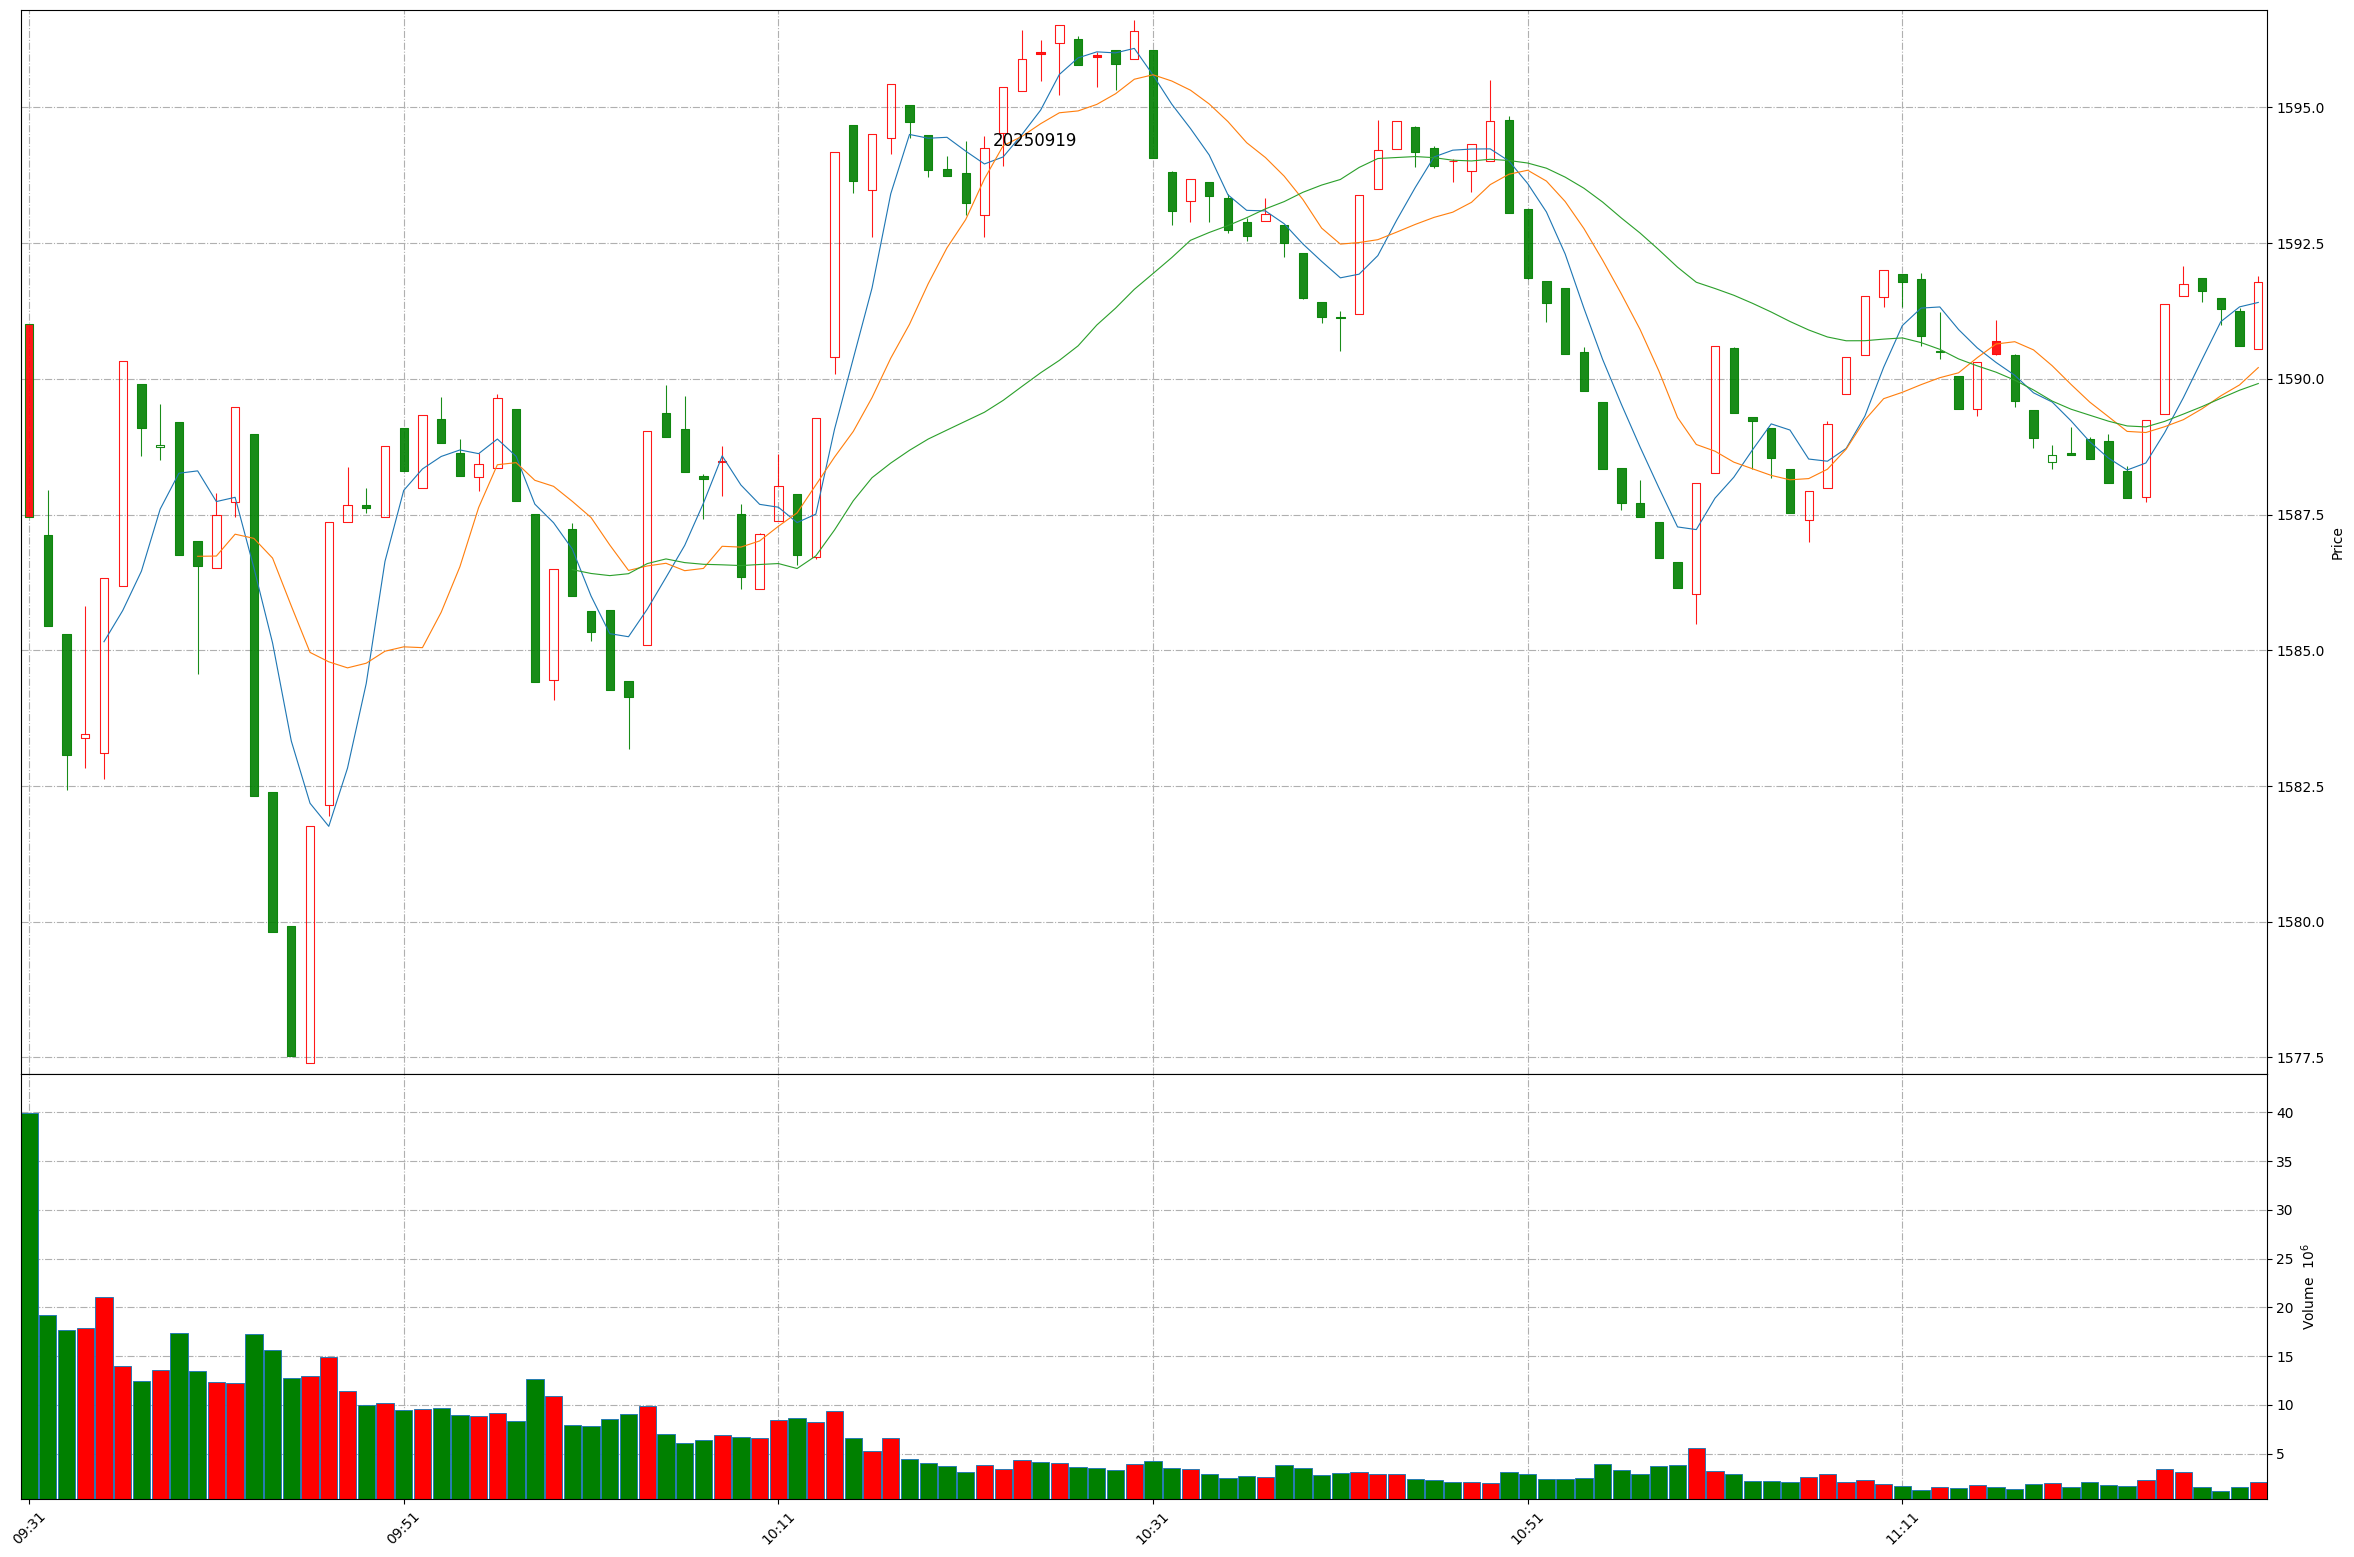
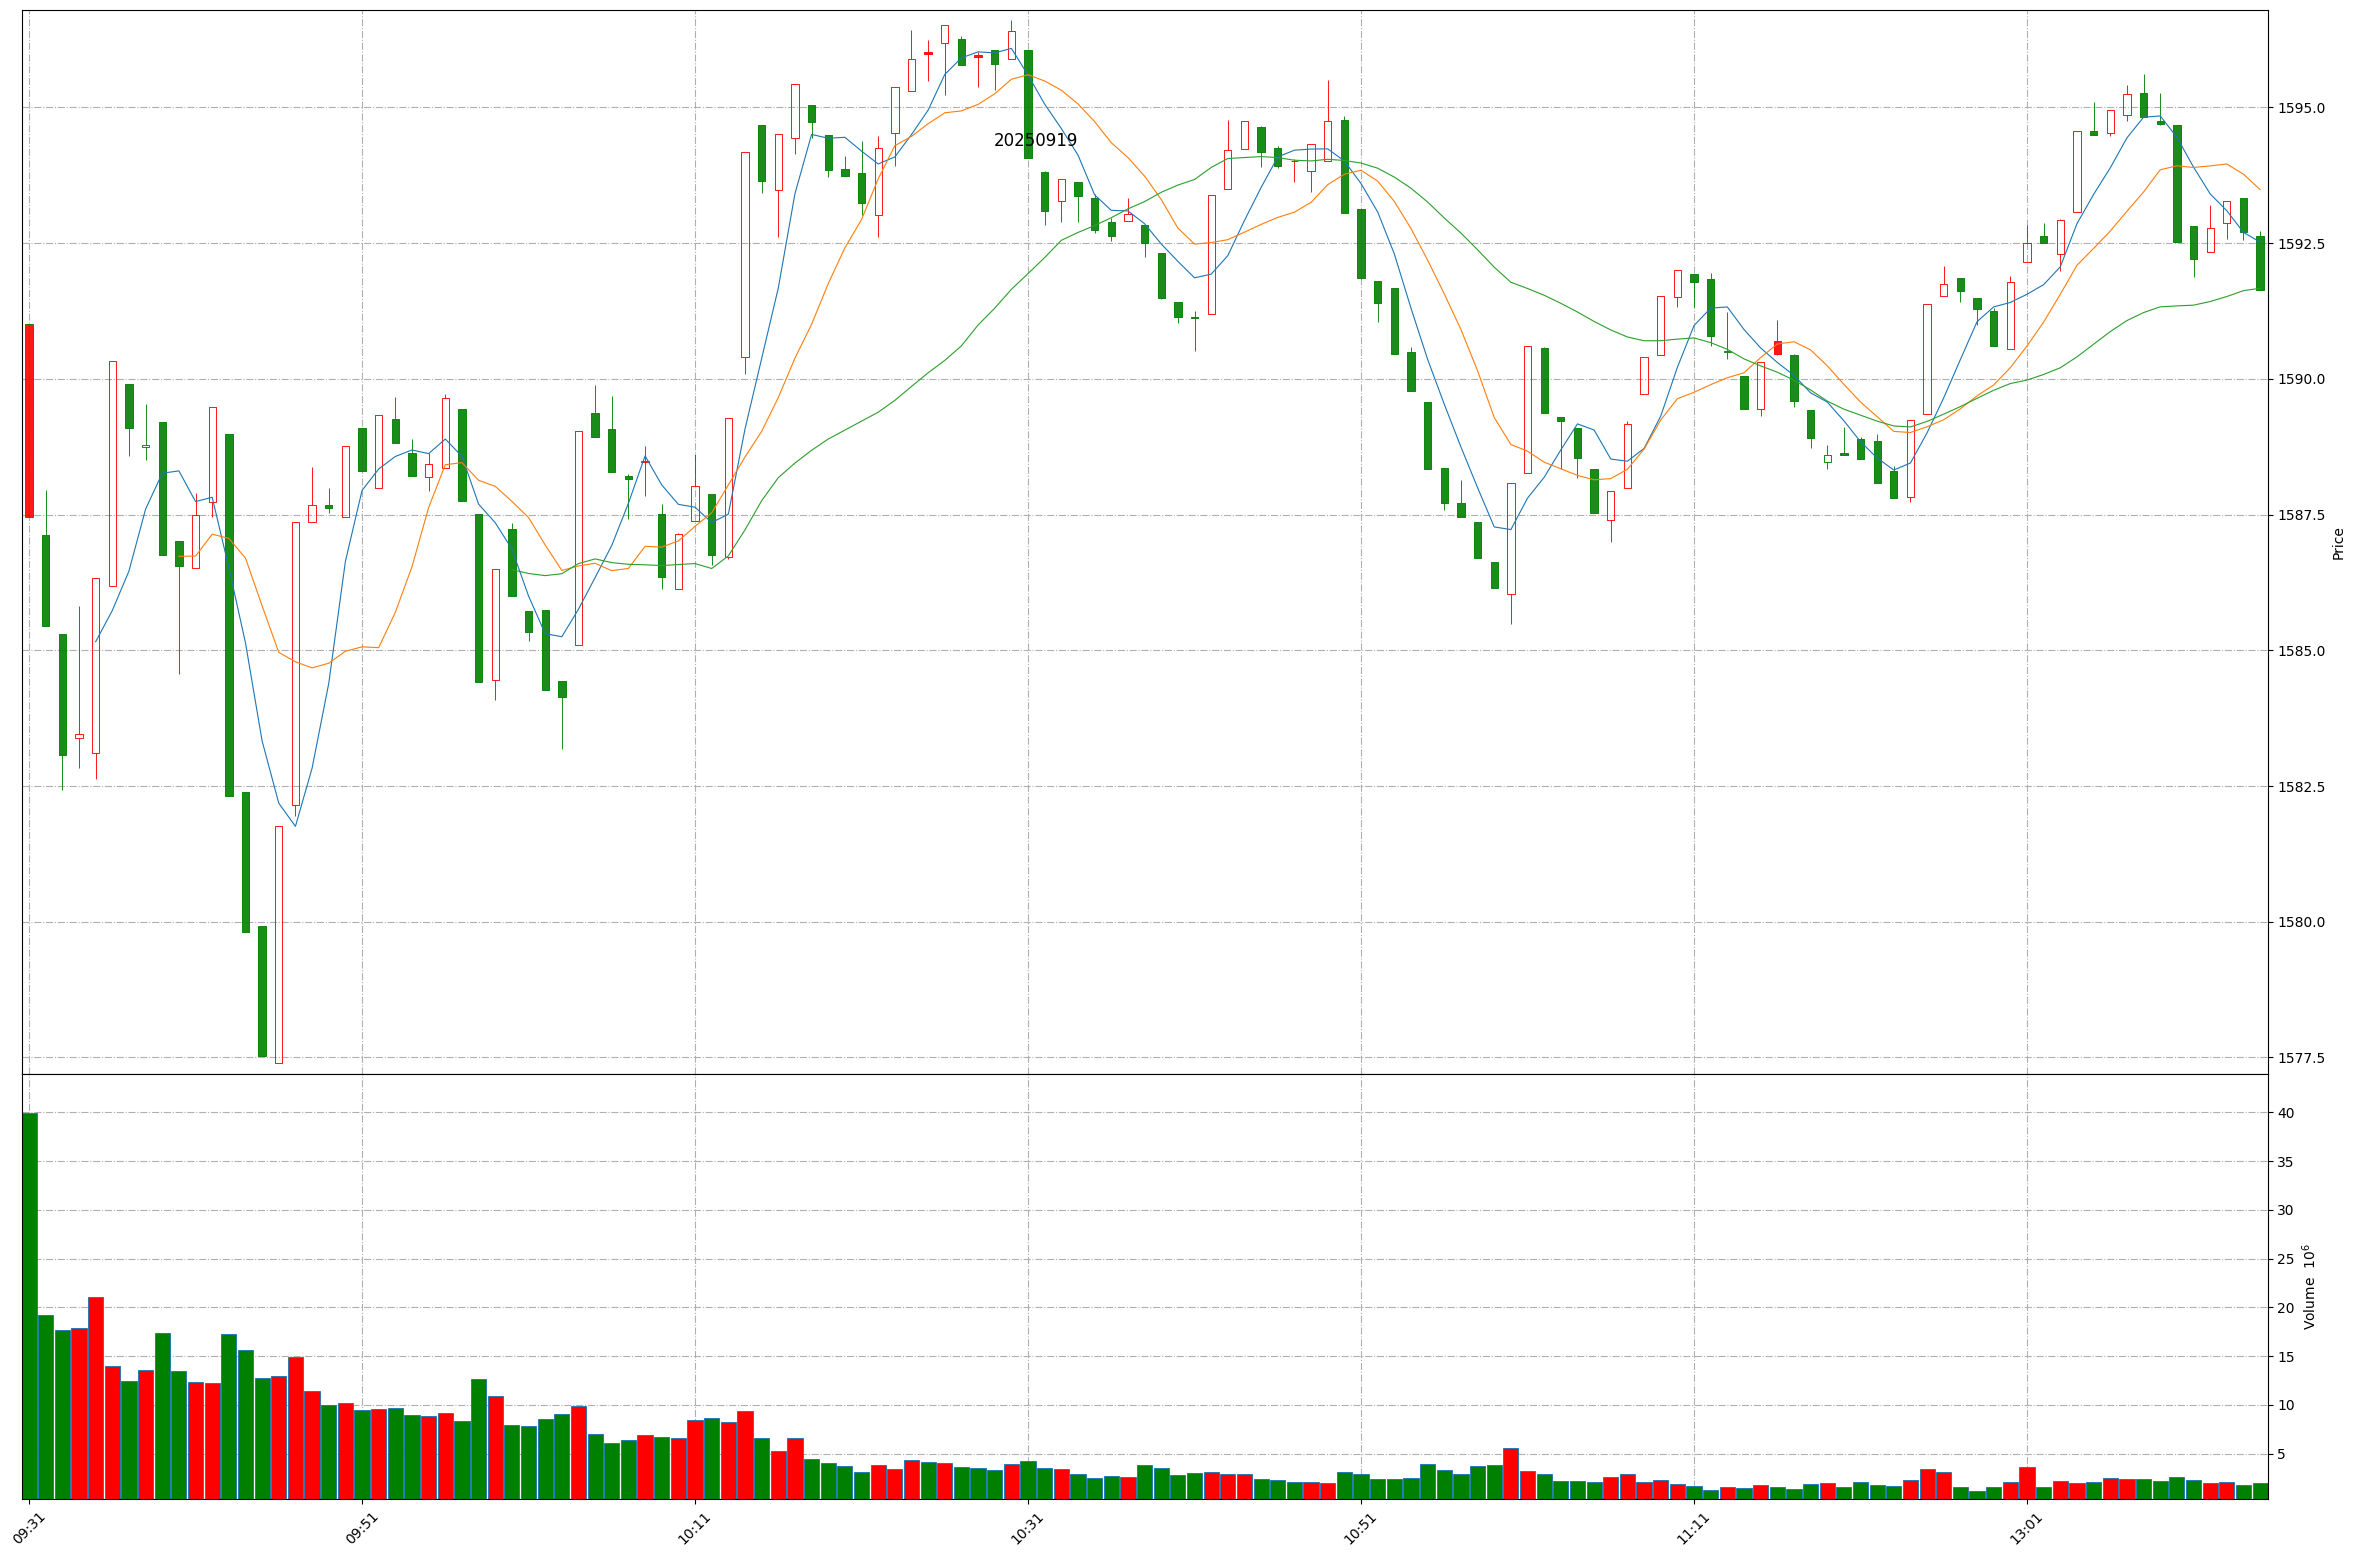
Github action update at 2025-09-19 13:15:14.

diff --git a/README.md b/README.md
@@ -1,11 +1,11 @@
 
 # Daily-A-share-market-quotes 每日 A 股指数（5min 更新）- 20250919
 
-### 上证指数 20250919 11:46
+### 上证指数 20250919 13:15
 ![](./fig/2025/9/20250919-sh000001.png)
 
-### 深证成指 20250919 11:46
+### 深证成指 20250919 13:15
 ![](./fig/2025/9/20250919-sz399001.png)
 
-### 北证50 20250919 11:46
+### 北证50 20250919 13:15
 ![](./fig/2025/9/20250919-bj899050.png)
